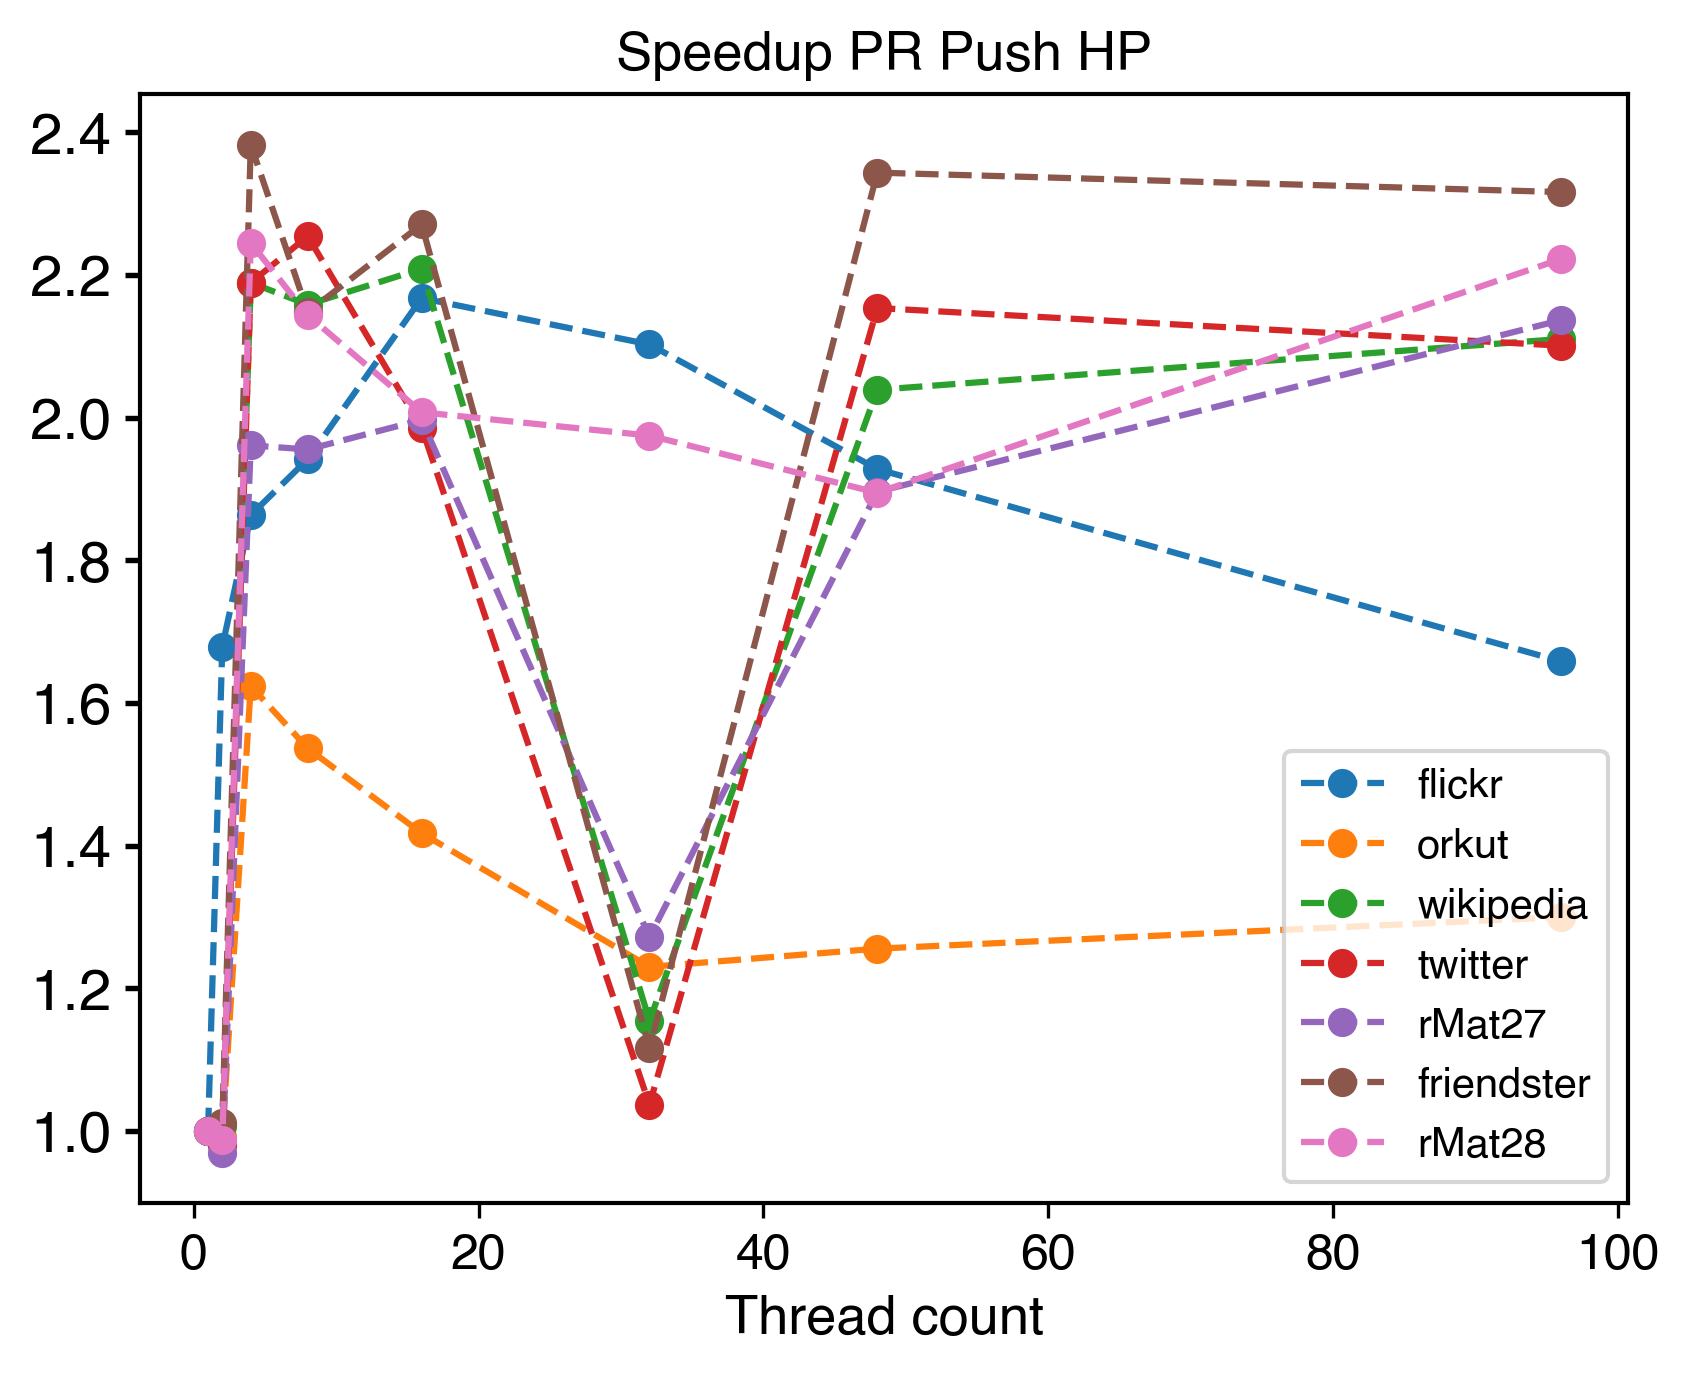
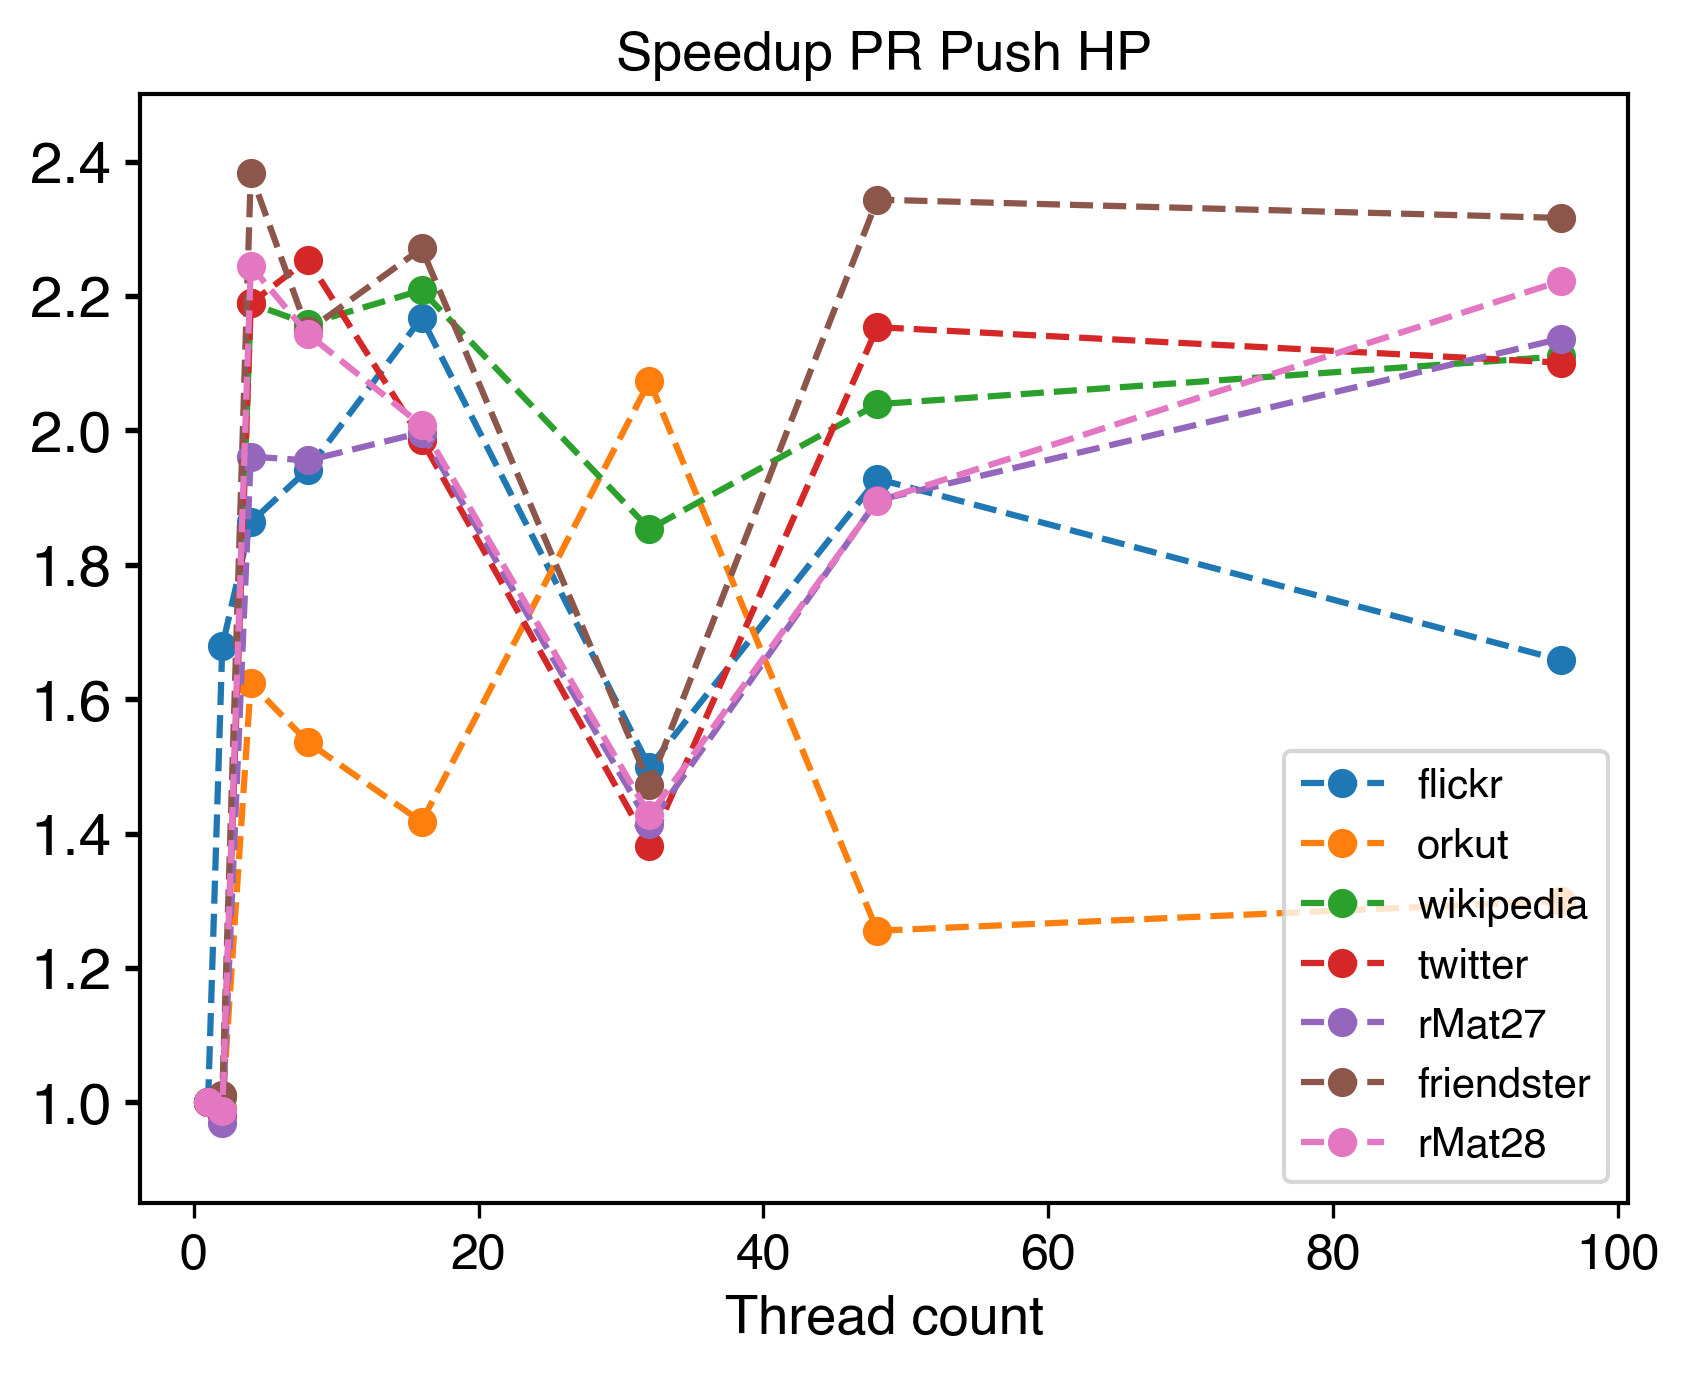
updated plots to make them more easily comparable

diff --git a/plots/makeplots.py b/plots/makeplots.py
@@ -4,19 +4,19 @@ from plotFunctions import *
 
 
 
-distributed = True
-singleNode = True
+distributed = False
+singleNode = False
 
-sssp = True
-bfs = True
-pr = True
+sssp = False
+bfs = False
+pr = False
 
 calcTimes = False
 execTimes = False
 overheads = False
 
 
-galoisSpeedup = False
+galoisSpeedup = True
 
 
 colors = {"Galois":"#1f77b4",
@@ -89,28 +89,24 @@ if singleNode and ( sssp or bfs or pr or calcTimes or execTimes or overheads):
 
 ## GALOIS THREAD COUNT
 if galoisSpeedup:
-	line_plot(graphs, x, speedupGaloisSSSP, yLabel='Average calculation time speedup', xLabel='Thread count', yScale='linear', saveToFile="singleNodeSSSPGaloisThreads.png")
+	line_plot(graphs, x, speedupGaloisSSSP, yLabel='Average calculation time speedup', xLabel='Thread count', yScale='linear', saveToFile="singleNodeSSSPGaloisThreads.png", ylim=[0,20])
 
-	line_plot(graphs, x[:-5], speedupGaloisSSSP, title='Speedup SSSP', yLabel='Average calculation time speedup', xLabel='Thread count', yScale='linear', saveToFile="singleNodeSSSPGaloisThreads_short.png")
+	line_plot(graphs, x, speedupGaloisBFS, yLabel='Average calculation time speedup', xLabel='Thread count', yScale='linear', saveToFile="singleNodeBFSGaloisThreads.png", ylim=[0,11])
 
-	line_plot(graphs, x, speedupGaloisBFS, title='SpeedupBFS', yLabel='Average calculation time speedup', xLabel='Thread count', yScale='linear', saveToFile="singleNodeBFSGaloisThreads.png")
+	line_plot(graphs, x, speedupGaloisPRPush, title='Speedup PR Push', xLabel='Thread count', yScale='linear', saveToFile="singleNodePRPushGaloisThreads.png", ylim=[0.85,2.5])
 
-	line_plot(graphs, x, speedupGaloisPRPush, title='Speedup PR Push', xLabel='Thread count', yScale='linear', saveToFile="singleNodePRPushGaloisThreads.png")
-
-	line_plot(graphs, x, speedupGaloisPRPull, title='Speedup PR Pull', yLabel='Average calculation time speedup', xLabel='Thread count', yScale='linear', saveToFile="singleNodePRPullGaloisThreads.png")
+	line_plot(graphs, x, speedupGaloisPRPull, title='Speedup PR Pull', yLabel='Average calculation time speedup', xLabel='Thread count', yScale='linear', saveToFile="singleNodePRPullGaloisThreads.png", ylim=[0.5,2.6])
 
 
 ## GALOIS HP THREAD COUNT
 if galoisSpeedup:
-	line_plot(graphs, xHP, speedupGaloisSSSP_HP, yLabel='Average calculation time speedup', xLabel='Thread count', title='Speedup SSSP HP', yScale='linear', saveToFile="singleNodeSSSPGaloisHPThreads.png")
+	line_plot(graphs, xHP, speedupGaloisSSSP_HP, yLabel='Average calculation time speedup', xLabel='Thread count', yScale='linear', saveToFile="singleNodeSSSPGaloisHPThreads.png", ylim=[0,20])
 
-	line_plot(graphs, xHP[:-5], speedupGaloisSSSP_HP, title='Speedup SSSP HP', yLabel='Average calculation time speedup', xLabel='Thread count', yScale='linear', saveToFile="singleNodeSSSPGaloisHPThreads_short.png")
+	line_plot(graphs, xHP, speedupGaloisBFS_HP, yLabel='Average calculation time speedup', xLabel='Thread count', yScale='linear', saveToFile="singleNodeBFSGaloisHPThreads.png", ylim=[0,11])
 
-	line_plot(graphs, xHP, speedupGaloisBFS_HP, title='Speedup BFS HP', yLabel='Average calculation time speedup', xLabel='Thread count', yScale='linear', saveToFile="singleNodeBFSGaloisHPThreads.png")
+	line_plot(graphs, xHP, speedupGaloisPRPush_HP, title='Speedup PR Push HP',  xLabel='Thread count', yScale='linear', saveToFile="singleNodePRPushGaloisHPThreads.png", ylim=[0.85,2.5])
 
-	line_plot(graphs, xHP, speedupGaloisPRPush_HP, title='Speedup PR Push HP',  xLabel='Thread count', yScale='linear', saveToFile="singleNodePRPushGaloisHPThreads.png")
-
-	line_plot(graphs, xHP, speedupGaloisPRPull_HP, title='Speedup PR Pull HP', yLabel='Average calculation time speedup', xLabel='Thread count', yScale='linear', saveToFile="singleNodePRPullGaloisHPThreads.png")
+	line_plot(graphs, xHP, speedupGaloisPRPull_HP, title='Speedup PR Pull HP', yLabel='Average calculation time speedup', xLabel='Thread count', yScale='linear', saveToFile="singleNodePRPullGaloisHPThreads.png", ylim=[0.5,2.6])
 
 
 

diff --git a/plots/makedata.py b/plots/makedata.py
@@ -116,16 +116,17 @@ if False:
             s[i] += calcTimeSSSP_singleNode[k][i]
         k += 1
     s /= 4
-    print("average calculation time:", s)
+    #print("average calculation time:", s)
     k = 0
     for f in frameworks:
         # if f == 'Giraph':
         #     k += 1
         #     continue
-        print(f)
+        #print(f)
         for i in range(1, len(execTimeSSSP_singleNode[k])):
-            print(graphs[i], round((execTimeSSSP_singleNode[k][i] / execTimeSSSP_singleNode[0][i]) * 100), "%")
-            print(graphs[i], round(execTimeSSSP_singleNode[k][i] * 100) / 100, "s")
+            pass
+            #print(graphs[i], round((execTimeSSSP_singleNode[k][i] / execTimeSSSP_singleNode[0][i]) * 100), "%")
+            #print(graphs[i], round(execTimeSSSP_singleNode[k][i] * 100) / 100, "s")
         k += 1
 
 ## SSSP DISTRIBUTED
@@ -182,12 +183,13 @@ for k in dist_frameworks_sssp:
         execTimeSSSP_distributed_normalizedToGalois[i].append(execTimeSSSP_distributed[i][j]/execTimeSSSP_distributed[0][j]) 
     i += 1
 
-for i in range(len(execTimeSSSP_distributed_normalizedToGalois[0])):
-    print(graphs[i], end=" & ")
-    for j in range(len(execTimeSSSP_distributed_normalizedToGalois)):
-        print(round(execTimeSSSP_distributed_normalizedToGalois[j][i] * 100)/100,end=" & (")
-        print(round(execTimeSSSP_distributed[j][i] * 10)/10 ,end=") & ")
-    print("\\\\")
+if False:
+    for i in range(len(execTimeSSSP_distributed_normalizedToGalois[0])):
+        print(graphs[i], end=" & ")
+        for j in range(len(execTimeSSSP_distributed_normalizedToGalois)):
+            print(round(execTimeSSSP_distributed_normalizedToGalois[j][i] * 100)/100,end=" & (")
+            print(round(execTimeSSSP_distributed[j][i] * 10)/10 ,end=") & ")
+        print("\\\\")
 #print(graphs)
 
 
@@ -469,6 +471,7 @@ for i in range(len(graph)):
         continue
     
     num = int(re.sub('\D', '', algo[i]))
+
     if not num in x:
         x.append(num)
 x.sort()
@@ -481,7 +484,10 @@ for i in range(len(graph)):
     if '-hp-' in algo[i]:
         continue
 
-    xVal = int(re.sub('\D', '', algo[i]))
+    tmp = re.sub('\D', '', algo[i])
+    if '032' in tmp:
+        continue # Werte mit vorangestellter 0 nicht werten
+    xVal = int(tmp)
     
     if 'sssp' in algo[i]:
         speedupGaloisSSSP[graph[i]][xVal] = calcTime[i]
@@ -568,15 +574,24 @@ for i in range(len(graph)):
     if not '-hp-' in algo[i]:
         continue
     
-    xVal = int(re.sub('\D', '', algo[i]))
+    tmp = re.sub('\D', '', algo[i])
+    xVal = int(tmp)
     
     if 'sssp' in algo[i]:
+        if '032' in tmp:
+            continue
         speedupGaloisSSSP_HP[graph[i]][xVal] = calcTime[i]
     elif 'bfs' in algo[i]:
+        if '032' in tmp:
+            continue
         speedupGaloisBFS_HP[graph[i]][xVal] = calcTime[i]
     elif 'pagerank-push' in algo[i]:
+        if xVal == 32 and not '032' in tmp:
+            continue
         speedupGaloisPRPush_HP[graph[i]][xVal] = calcTime[i]
     elif 'pagerank-pull' in algo[i]:
+        if '032' in tmp:
+            continue
         speedupGaloisPRPull_HP[graph[i]][xVal] = calcTime[i]
 
 

diff --git a/plots/plotFunctions.py b/plots/plotFunctions.py
@@ -54,7 +54,7 @@ def grouped_bar_plot(group_names, legend_names, values, colors_=None, yErrs=None
 
 #
 # values is a dictionary
-def line_plot(legend_names, x, values, title='', yLabel='', xLabel='', yScale=None, saveToFile=None):
+def line_plot(legend_names, x, values, title='', yLabel='', xLabel='', yScale=None, saveToFile=None, ylim=None):
 
 	if len(legend_names) != len(values):
 		raise Exception("Size mismatch: Expected " + str(len(legend_names)) + " categories, got " + str(len(values)))
@@ -76,6 +76,8 @@ def line_plot(legend_names, x, values, title='', yLabel='', xLabel='', yScale=No
 	ax.set_title(title)
 	ax.set_ylabel(yLabel)
 	ax.set_xlabel(xLabel)
+	if ylim != None:
+		ax.set_ylim(ylim)
 
 	
 	ax.legend(ps, legend_names)
